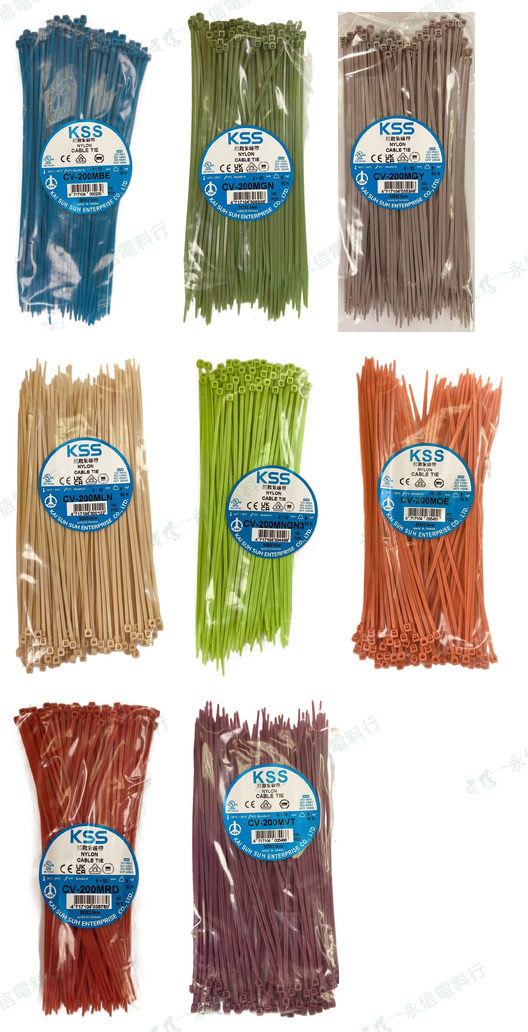
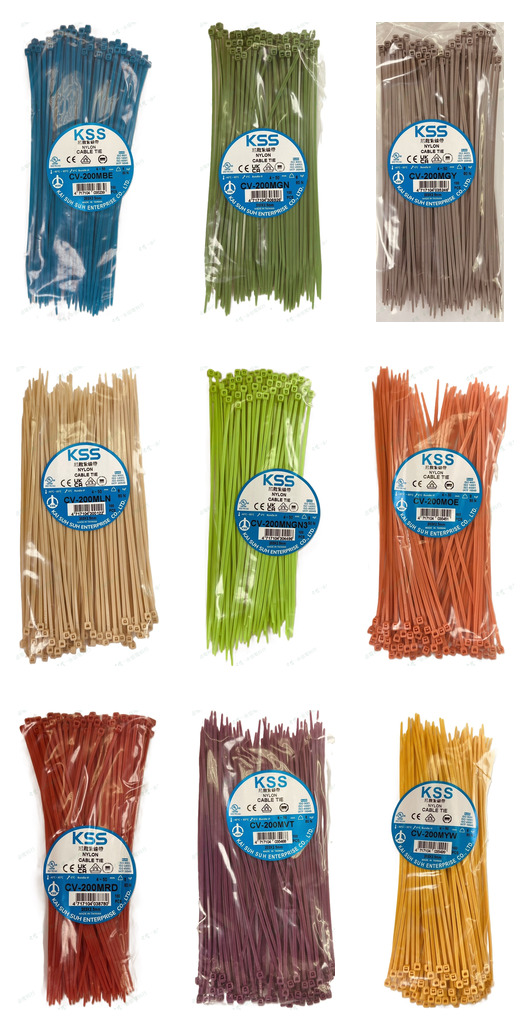
Add yellow to KSS color overview card

diff --git a/CHANGELOG.md b/CHANGELOG.md
@@ -1,5 +1,9 @@
 # CHANGELOG
 
+## v7.20.7
+- 修正 KSS CV-200M 彩色特殊訂製商品頁的彩色總覽圖，將先前遺漏的 CV-200MYW 黃色束帶補入總覽卡片。
+- 保留原有 9 色獨立縮圖與黃色獨立實拍，現在總覽圖與下方色卡內容一致。
+
 ## v7.20.6
 - 補上 KSS CV-200MYW 黃色特殊訂製束帶獨立實拍，並套用既定 14% 淡綠斜向浮水印。
 - 修正 CV-200M 彩色特殊訂製商品頁原先「黃色未附獨立實拍」的錯誤註記；目前 9 種彩色型號皆有獨立照片。
